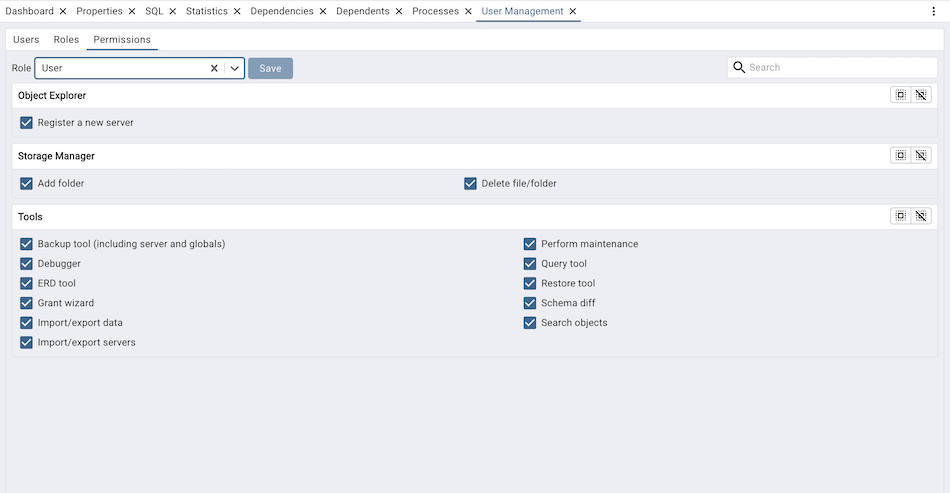
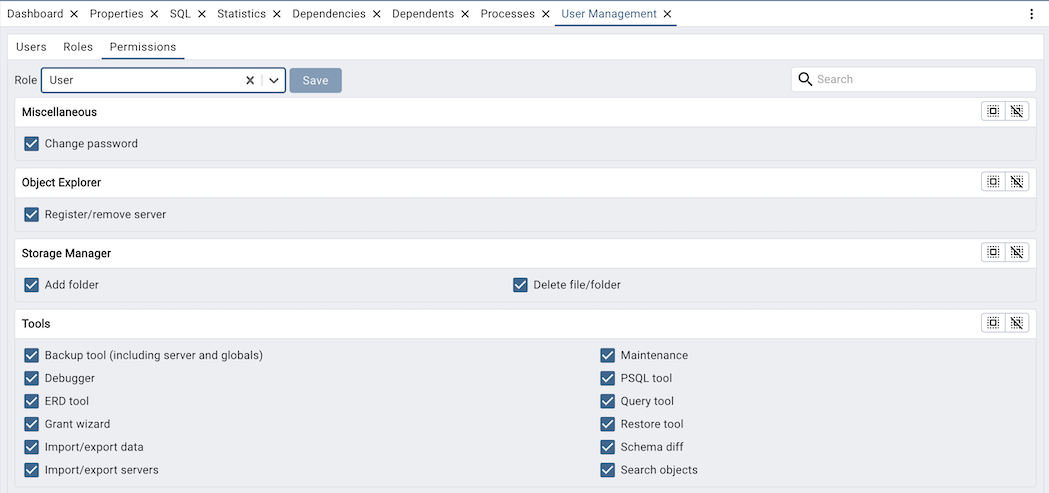
Add a new permission to allow disabling "Change Password" feature for a pgAdmin role. #1926

diff --git a/web/pgadmin/tools/user_management/static/js/index.js b/web/pgadmin/tools/user_management/static/js/index.js
@@ -13,6 +13,7 @@ import gettext from 'sources/gettext';
 import { showChangeUserPassword, showUrlDialog } from '../../../../static/js/Dialogs/index';
 import { BROWSER_PANELS } from '../../../../browser/static/js/constants';
 import Component from './Component';
+import withCheckPermission from '../../../../browser/static/js/withCheckPermission';
 
 class UserManagement {
   static instance;
@@ -30,9 +31,11 @@ class UserManagement {
     this.initialized = true;
   }
 
-  // This is a callback function to show change user dialog.
+  // This is a callback function to show change user dialog based on permission.
   change_password(url) {
-    showChangeUserPassword(url);
+    withCheckPermission({ permission: 'change_password' }, () => {
+      showChangeUserPassword(url);
+    })();
   }
 
   // This is a callback function to show 2FA dialog.

diff --git a/web/pgadmin/tools/user_management/PgAdminPermissions.py b/web/pgadmin/tools/user_management/PgAdminPermissions.py
@@ -26,6 +26,7 @@ class AllPermissionTypes:
     tools_grant_wizard = 'tools_grant_wizard'
     storage_add_folder = 'storage_add_folder'
     storage_remove_folder = 'storage_remove_folder'
+    change_password = 'change_password'
 
     @staticmethod
     def list():
@@ -34,9 +35,10 @@ class AllPermissionTypes:
 
 
 class AllPermissionCategories:
-    object_explorer = 'Object Explorer'
-    tools = 'Tools'
-    storage_manager = 'Storage Manager'
+    object_explorer = gettext('Object Explorer')
+    tools = gettext('Tools')
+    storage_manager = gettext('Storage Manager')
+    miscellaneous = gettext('Miscellaneous')
 
 
 class PgAdminPermissions:
@@ -117,6 +119,11 @@ class PgAdminPermissions:
             AllPermissionCategories.storage_manager,
             AllPermissionTypes.storage_remove_folder,
             gettext("Delete file/folder")
+        )
+        self.add_permission(
+            AllPermissionCategories.miscellaneous,
+            AllPermissionTypes.change_password,
+            gettext("Change password")
         )
 
     def add_permission(self, category: str, permission: str, label: str):

diff --git a/web/migrations/versions/c62bcc14c3d6_.py b/web/migrations/versions/c62bcc14c3d6_.py
@@ -1,0 +1,37 @@
+
+"""empty message
+
+Revision ID: c62bcc14c3d6
+Revises: 1f0eddc8fc79
+Create Date: 2025-06-02 21:45:20.653669
+
+"""
+import sqlalchemy as sa
+from alembic import op
+
+# revision identifiers, used by Alembic.
+revision = 'c62bcc14c3d6'
+down_revision = '1f0eddc8fc79'
+branch_labels = None
+depends_on = None
+
+def upgrade():
+    # Add 'change_password' permission to all roles except 'Administrator'.
+    meta = sa.MetaData()
+    meta.reflect(op.get_bind(), only=('role',))
+    role_table = sa.Table('role', meta)
+
+    perm = role_table.c.permissions
+    op.execute(role_table.update().where(
+        (role_table.c.name != 'Administrator')
+    ).values(
+        permissions=sa.case(
+            (perm == None, 'change_password'),
+            (perm == '', 'change_password'),
+            else_=perm + ',change_password'
+        ))
+    )
+
+def downgrade():
+    # pgAdmin only upgrades, downgrade not implemented.
+    pass

diff --git a/web/pgadmin/model/__init__.py b/web/pgadmin/model/__init__.py
@@ -33,7 +33,7 @@ import config
 #
 ##########################################################################
 
-SCHEMA_VERSION = 44
+SCHEMA_VERSION = 45
 
 ##########################################################################
 #
